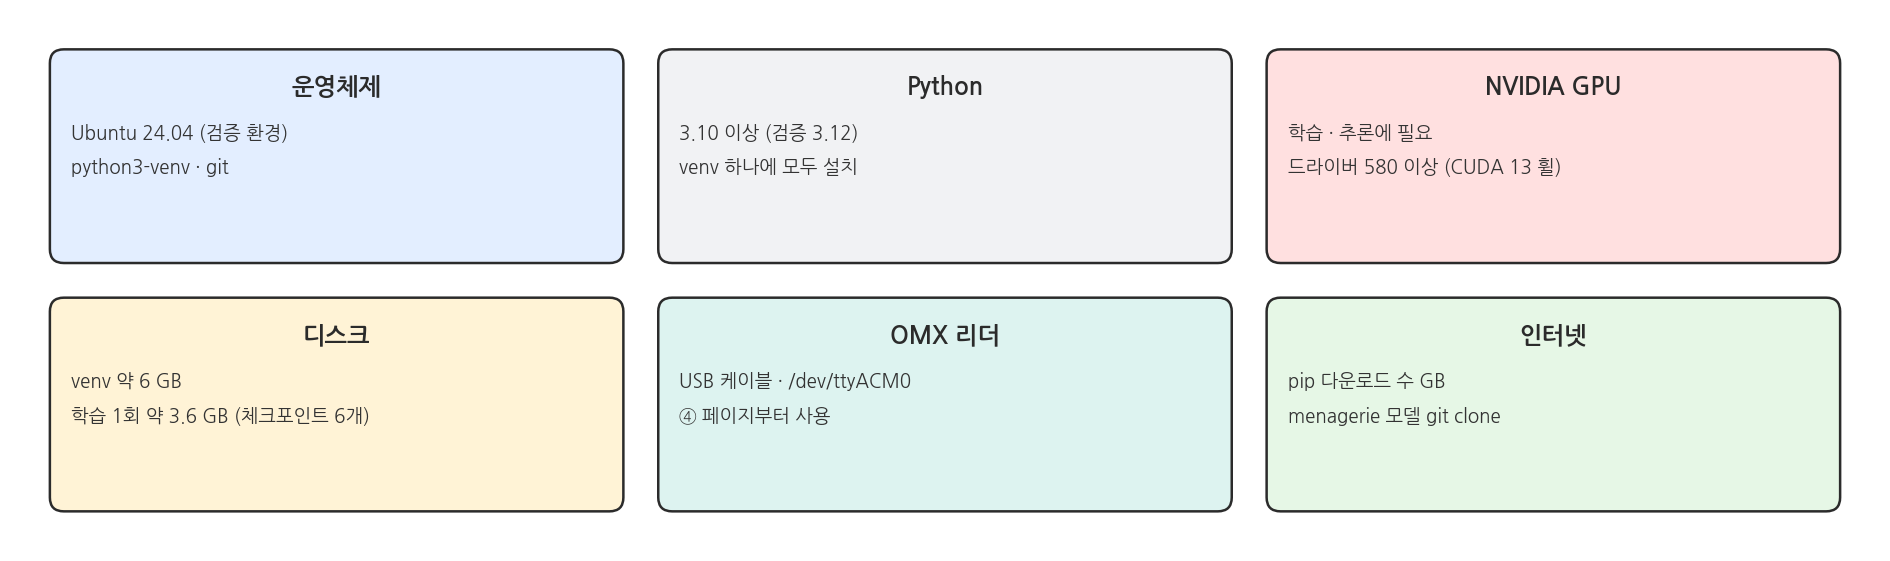
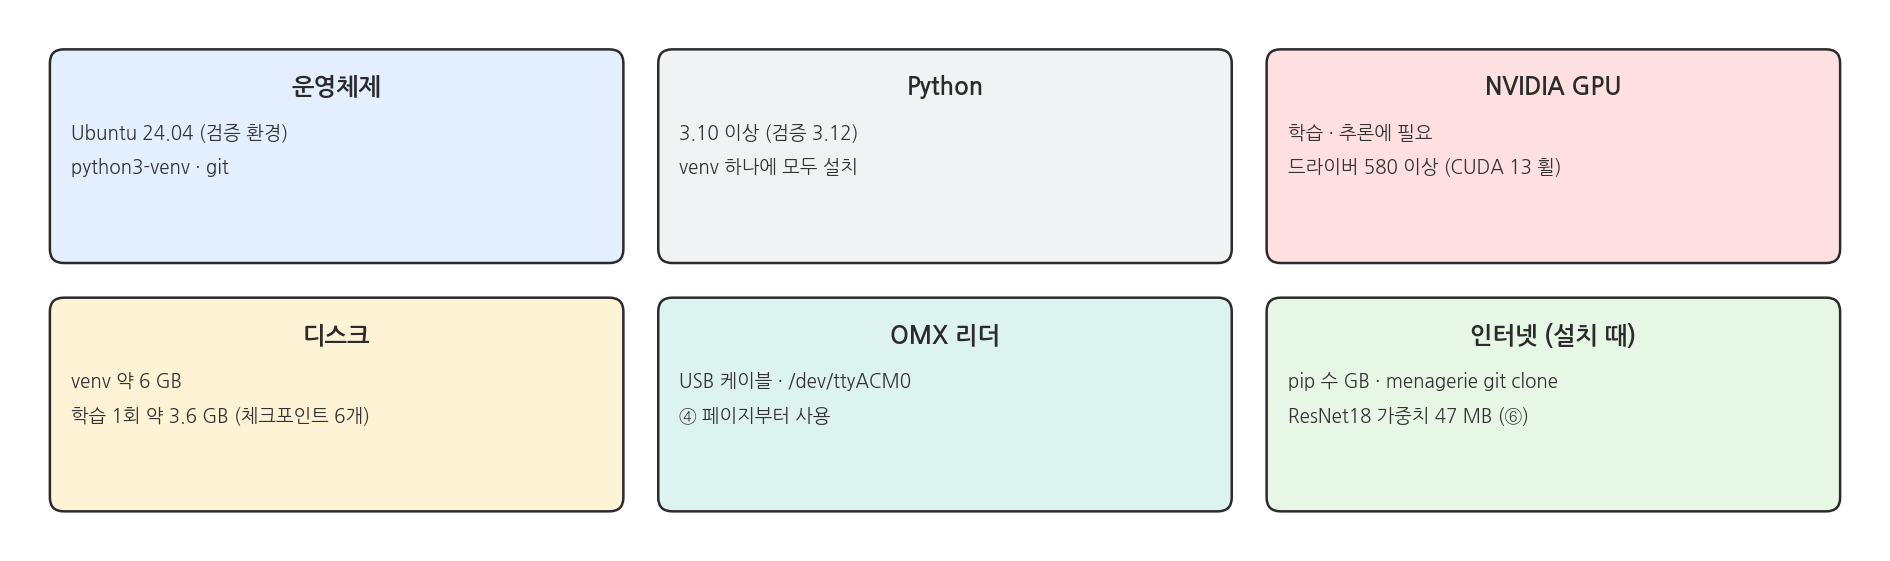
Lecture review fixes: CPU speed, ResNet18 weight prefetch, consistent names, larger screenshots
train.py: CPU warning now uses the measured 0.9 s/step (was ~5 s) and the docstring notes the
one-time ResNet18 weight download. README: prefetch command, measured GPU/CPU speeds.

Changed region(s): [[0.7804, 0.5758, 0.8741, 0.6364], [0.6868, 0.6667, 0.8429, 0.697], [0.6868, 0.7273, 0.8116, 0.7576]]

diff --git a/docs/lecture/draw_lesson07_figures.py b/docs/lecture/draw_lesson07_figures.py
@@ -81,8 +81,8 @@ def settings():
     tiles(ax, [("chunk 20 스텝", ["--chunk-s 2 × 10 fps", "LeRobot 기본 100 은 10 Hz 에서 10 s"], C["purple"]),
                ("batch 8 · lr 1e-5", ["LeRobot ACT 기본 학습률", "GPU 메모리 1.3 GB"], C["grey"]),
                ("30,000 스텝", ["5,000 스텝마다 체크포인트", "Ctrl+C → --resume 으로 이어서"], C["yellow"]),
-               ("AMP (GPU)", ["혼합 정밀도, 약 25% 빠름", "CPU 에서는 끔"], C["blue"]),
-               ("오프라인", ["HF_HUB_OFFLINE=1", "data/ 의 로컬 데이터셋만"], C["teal"]),
+               ("AMP (GPU)", ["혼합 정밀도 (float16 계산)", "CPU 에서는 끔"], C["blue"]),
+               ("Hub 없이", ["HF_HUB_OFFLINE=1 · data/ 의 로컬 데이터", "첫 학습 때 ResNet18 가중치 47 MB 받음"], C["teal"]),
                ("실측 속도", ["RTX 5060 Ti: 약 21 스텝/s", "30,000 스텝 약 23 분"], C["green"])], 3, h=1.8)
     save(fig, "l07_settings.png")
 
@@ -129,15 +129,15 @@ def checkpoints():
 
 def gpu_cpu():
     fig, ax = plt.subplots(figsize=(12, 3.6), dpi=150)
-    vals = [("GPU (RTX 5060 Ti, 실측)", 23 / 60, BLUE), ("CPU (Ryzen 7 9700X, 스텝당 약 5 s)", 30000 * 5 / 3600, RED)]
+    vals = [("GPU (RTX 5060 Ti, 30,000 스텝 실측)", 23 / 60, BLUE), ("CPU (Ryzen 7 9700X, 스텝당 0.9 s 실측)", 30000 * 0.9 / 3600, RED)]
     for i, (n, h, c) in enumerate(vals):
         ax.barh(i, h, color=c, height=0.5)
-        ax.text(h + 0.6, i, f"{h:.1f} 시간" if h > 1 else f"{h * 60:.0f} 분", va="center", fontsize=11, fontweight="bold")
+        ax.text(h + 0.12, i, f"{h:.1f} 시간" if h > 1 else f"{h * 60:.0f} 분", va="center", fontsize=11, fontweight="bold")
     ax.set_yticks(range(2), [v[0] for v in vals], fontsize=10.5); ax.invert_yaxis()
-    ax.set_xlabel("30,000 스텝 학습 시간 (시간)", fontsize=10.5); ax.set_xlim(0, 48)
+    ax.set_xlabel("30,000 스텝 학습 시간 (시간)", fontsize=10.5); ax.set_xlim(0, 9)
     for sp in ("top", "right"):
         ax.spines[sp].set_visible(False)
-    ax.set_title("GPU 와 CPU 학습 시간 비교 (CPU 값은 짧게 재 본 스텝 시간으로 환산)", fontsize=11.5)
+    ax.set_title("GPU 와 CPU 학습 시간 비교 (CPU 는 40 스텝을 재서 30,000 스텝으로 환산)", fontsize=11.5)
     fig.savefig(OUT / "l07_gpu_cpu.png", bbox_inches="tight", facecolor="white"); plt.close(fig)
     print("saved l07_gpu_cpu.png")
 

diff --git a/docs/lecture/draw_lesson06_figures.py b/docs/lecture/draw_lesson06_figures.py
@@ -13,7 +13,7 @@ import matplotlib.pyplot as plt
 import numpy as np
 
 sys.path.insert(0, str(Path(__file__).resolve().parent))
-from figstyle import BLUE, GREY, INK, OUT, RED, C, arrow, chain, fig_ax, image, label, note, rbox, save  # noqa: E402
+from figstyle import grid2x2, BLUE, GREY, INK, OUT, RED, C, arrow, chain, fig_ax, image, label, note, rbox, save  # noqa: E402
 from render_terminal import render  # noqa: E402
 
 
@@ -67,13 +67,9 @@ def frame():
 
 
 def sequence():
-    fig, ax = fig_ax(16, 4.1)
-    for i, (n, t) in enumerate([("rec", "REC 4.4 s"), ("ok", "성공 → REC OK"), ("saved", "SAVED episode 1"),
-                                ("done", "3 / 3 → DONE")]):
-        x = 0.3 + i * 3.9
-        hh = image(ax, OUT / f"l06_view_{n}.png", x, 0.3, 3.7)
-        note(ax, x + 1.85, 0.3 + hh + 0.25, t, ha="center", fs=10.5, bold=True, color=INK)
-    save(fig, "l06_sequence.png")
+    grid2x2([(OUT / f"l06_view_{n}.png", t) for n, t in
+             [("rec", "REC 4.4 s"), ("ok", "성공 → REC OK"), ("saved", "SAVED episode 1"), ("done", "3 / 3 → DONE")]],
+            "l06_sequence.png", crop_right=2020)
 
 
 def layout():
@@ -139,8 +135,11 @@ def terminals():
            "l06_t_record.png", highlight=("saved (success)",))
     lines = (OUT / "l06_inspect.txt").read_text().splitlines()
     lines = [s for s in lines if not s.startswith("saved ")]
-    render([("prompt", ".venv/bin/python docs/lecture/inspect_dataset.py lecture_record")] + [("out", s) for s in lines],
-           "l06_t_inspect.png", highlight=("episode lengths", "size on disk"))
+    cut = lines.index("ds[0] (episode 0, frame 0):")
+    render([("prompt", ".venv/bin/python docs/lecture/inspect_dataset.py lecture_record")]
+           + [("out", s) for s in lines[:cut] if s.strip()] + [("out", "...")], "l06_t_inspect_meta.png")
+    render([("out", "...")] + [("out", s) for s in lines[cut:] if s.strip()],
+           "l06_t_inspect_frame.png", highlight=("episode lengths", "size on disk"))
     render([("prompt", "du -sh data/lecture_record data/omx_cube_fixed5 data/omx_cube_random50"),
             ("out", "1.9M\tdata/lecture_record"), ("out", "2.8M\tdata/omx_cube_fixed5"), ("out", "28M\tdata/omx_cube_random50")],
            "l06_t_size.png")

diff --git a/docs/lecture/draw_lesson02_figures.py b/docs/lecture/draw_lesson02_figures.py
@@ -16,14 +16,14 @@ def requirements():
                ("NVIDIA GPU", ["학습 · 추론에 필요", "드라이버 580 이상 (CUDA 13 휠)"], C["red"]),
                ("디스크", ["venv 약 6 GB", "학습 1회 약 3.6 GB (체크포인트 6개)"], C["yellow"]),
                ("OMX 리더", ["USB 케이블 · /dev/ttyACM0", "④ 페이지부터 사용"], C["teal"]),
-               ("인터넷", ["pip 다운로드 수 GB", "menagerie 모델 git clone"], C["green"])], 3, h=1.85)
+               ("인터넷 (설치 때)", ["pip 수 GB · menagerie git clone", "ResNet18 가중치 47 MB (⑥)"], C["green"])], 3, h=1.85)
     save(fig, "l02_requirements.png")
 
 
 def install_flow():
     fig, ax = fig_ax(16, 2.9)
     chain(ax, [("① apt", ["python3-venv · git"]), ("② 저장소", ["git clone"]), ("③ venv", ["pip install -e ."]),
-               ("④ menagerie", ["OMX 메시 · 모델"]), ("⑤ dialout", ["시리얼 권한"]), ("⑥ 확인", ["버전 · GPU · 렌더"])],
+               ("④ menagerie", ["OMX 메시 · 모델"]), ("⑤ dialout", ["시리얼 권한"]), ("⑥ 확인", ["가중치 · 버전 · 렌더"])],
           0.5, 1.9, gap=0.3, colors=[C["grey"], C["blue"], C["purple"], C["teal"], C["yellow"], C["green"]],
           tfs=11.5, fs=9.5)
     save(fig, "l02_install_flow.png")
@@ -118,7 +118,7 @@ def troubleshoot():
     rows = [("ensurepip is not available", "python3-venv 없음", "sudo apt install python3-venv"),
             ("Error opening file '.../models/follower_01_base.stl'", "menagerie를 받지 않음", "④ git clone 실행"),
             ("[Errno 13] Permission denied: '/dev/ttyACM0'", "dialout 그룹이 아님", "⑤ usermod 후 로그아웃 · 로그인"),
-            ("WARNING: no GPU found. On CPU a step takes ~5 s", "GPU · 드라이버 없음", "nvidia-smi 확인, GPU PC에서 학습")]
+            ("WARNING: no GPU found. On CPU a step takes ~1 s or more", "GPU · 드라이버 없음", "nvidia-smi 확인, GPU PC에서 학습")]
     x = [0.3, 7.6, 11.0]; w = [7.1, 3.2, 4.7]
     for j, t in enumerate(["증상 (메시지)", "원인", "해결"]):
         rbox(ax, x[j], 3.75, w[j], 0.6, t, fc=[C["grey"], C["yellow"], C["green"]][j], tfs=11)

diff --git a/scripts/train.py b/scripts/train.py
@@ -1,4 +1,7 @@
-"""Train an ACT policy on a recorded dataset (data/<dataset>) with LeRobot, fully offline.
+"""Train an ACT policy on a recorded dataset (data/<dataset>) with LeRobot, without the Hugging Face Hub.
+
+The first run downloads the ResNet18 ImageNet weights (~45 MB, torchvision cache in ~/.cache/torch/hub);
+after that no internet is needed.
 
   python scripts/train.py [--dataset omx_cube_to_tray] [--steps 30000] [--batch-size 8]
   python scripts/train.py --resume            # continue an interrupted run (Ctrl+C is fine)
@@ -6,7 +9,7 @@
 
 Output: outputs/train/<dataset>_act/checkpoints/<step>/pretrained_model (a checkpoint every
 --save-freq steps; checkpoints/last points at the newest). Progress, loss and the remaining time
-are printed by LeRobot. A GPU is strongly recommended: on CPU training is 25x slower.
+are printed by LeRobot. A GPU is strongly recommended: on CPU training is about 20x slower.
 """
 import argparse
 import json
@@ -99,8 +102,9 @@ def main():
 
     print(f"run: {run_dir}  device: {device}")
     if device == "cpu":
-        print(f"WARNING: no GPU found. On CPU a step takes ~5 s, so {args.steps} steps take about "
-              f"{args.steps * 5 / 3600:.0f} h. Train on a PC with an NVIDIA GPU if you can.")
+        # Measured ~0.9 s per step on an 8-core desktop CPU (Ryzen 7 9700X); laptops are slower.
+        print(f"WARNING: no GPU found. On CPU a step takes ~1 s or more, so {args.steps} steps take at least "
+              f"{args.steps * 0.9 / 3600:.0f} h. Train on a PC with an NVIDIA GPU if you can.")
 
     env = dict(os.environ, SVT_LOG="1", HF_HUB_OFFLINE="1")  # quiet video encoder, never touch the Hub
     try:

diff --git a/docs/lecture/draw_lesson05_figures.py b/docs/lecture/draw_lesson05_figures.py
@@ -8,7 +8,7 @@ import sys
 from pathlib import Path
 
 sys.path.insert(0, str(Path(__file__).resolve().parent))
-from figstyle import BLUE, GREEN, INK, OUT, RED, C, arrow, chain, fig_ax, image, label, note, rbox, save  # noqa: E402
+from figstyle import grid2x2, BLUE, GREEN, INK, OUT, RED, C, arrow, chain, fig_ax, image, label, note, rbox, save  # noqa: E402
 from render_terminal import render  # noqa: E402
 
 
@@ -62,13 +62,9 @@ def view_direction():
 
 
 def sequence():
-    fig, ax = fig_ax(16, 4.1)
-    names = [("start", "시작 (리더 정지)"), ("grasp", "잡기"), ("carry", "옮기기"), ("success", "놓기 → SUCCESS")]
-    for i, (n, t) in enumerate(names):
-        x = 0.3 + i * 3.9
-        hh = image(ax, OUT / f"l05_view_{n}.png", x, 0.3, 3.7)
-        note(ax, x + 1.85, 0.3 + hh + 0.25, t, ha="center", fs=10.5, bold=True, color=INK)
-    save(fig, "l05_sequence.png")
+    grid2x2([(OUT / f"l05_view_{n}.png", t) for n, t in
+             [("start", "시작 (리더 정지)"), ("grasp", "잡기"), ("carry", "옮기기"), ("success", "놓기 → SUCCESS")]],
+            "l05_sequence.png", crop_right=2020)
 
 
 def keys():

diff --git a/docs/lecture/draw_lesson10_figures.py b/docs/lecture/draw_lesson10_figures.py
@@ -12,7 +12,7 @@ import matplotlib.pyplot as plt
 import numpy as np
 
 sys.path.insert(0, str(Path(__file__).resolve().parent))
-from figstyle import BLUE, GREEN, INK, OUT, RED, C, arrow, chain, fig_ax, image, note, rbox, save  # noqa: E402
+from figstyle import grid2x2, BLUE, GREEN, INK, OUT, RED, C, arrow, chain, fig_ax, image, note, rbox, save  # noqa: E402
 from render_terminal import render  # noqa: E402
 
 ROOT = OUT.parents[1]
@@ -98,13 +98,8 @@ def interp():
 
 
 def video_frames():
-    """Frames 0/25/45/80 of outputs/lecture/scripted5.mp4, extracted with the venv (imageio) to l10_video_*.png."""
-    fig, ax = fig_ax(16, 2.6)
-    for k, i in enumerate((0, 25, 45, 80)):
-        x = 0.3 + k * 3.9
-        image(ax, OUT / f"l10_video_{i:03d}.png", x, 0.3, 3.7)
-        note(ax, x + 0.1, 0.5, f"t = {i / 10:.1f} s", fs=9, color="white")
-    save(fig, "l10_video.png")
+    """Frames 0/25/45/80 of outputs/lecture/scripted5.mp4 (global | wrist), extracted with the venv to l10_video_*.png."""
+    grid2x2([(OUT / f"l10_video_{i:03d}.png", f"t = {i / 10:.1f} s") for i in (0, 25, 45, 80)], "l10_video.png")
 
 
 def terminals():

diff --git a/docs/lecture/figstyle.py b/docs/lecture/figstyle.py
@@ -117,3 +117,28 @@ def save(fig, name):
     fig.savefig(OUT / name, bbox_inches="tight", facecolor="white")
     plt.close(fig)
     print("saved", name)
+
+
+def grid2x2(items, name, crop_right=None):
+    """Four screenshots in a 2 x 2 grid with a title above each. items: (png path, title).
+    crop_right: keep only this many pixels from the left (drops the viewer's UI panel)."""
+    from PIL import Image
+    tmp = []
+    for path, _ in items:
+        im = Image.open(path)
+        if crop_right:
+            im = im.crop((0, 0, min(crop_right, im.width), im.height))
+        p = OUT / f".tmp_{Path(path).name}"
+        im.save(p)
+        tmp.append(p)
+    w = 7.6
+    h = w * Image.open(tmp[0]).height / Image.open(tmp[0]).width
+    fig, ax = fig_ax(16, 2 * (h + 0.65) + 0.1)
+    for k, (p, (_, title)) in enumerate(zip(tmp, items)):
+        r, c = divmod(k, 2)
+        x, y = 0.3 + c * (w + 0.2), 0.1 + (1 - r) * (h + 0.65)
+        image(ax, p, x, y, w)
+        note(ax, x + w / 2, y + h + 0.3, title, ha="center", fs=12, bold=True, color=INK)
+    save(fig, name)
+    for p in tmp:
+        p.unlink()

diff --git a/docs/lecture/draw_lesson01_figures.py b/docs/lecture/draw_lesson01_figures.py
@@ -212,7 +212,7 @@ def stack():
     fig, ax = fig_ax(16, 4.6)
     tiles(ax, [("MuJoCo 3.15.0", ["물리 시뮬레이션 · 뷰어", "오프스크린 카메라 렌더 (EGL)"], C["blue"]),
                ("LeRobot 0.6.1", ["LeRobotDataset · ACT 정책", "OMX 리더 드라이버 (Dynamixel)"], C["purple"]),
-               ("PyTorch + CUDA", ["ACT 학습 · 추론", "GPU 필수 (CPU는 약 25배 느림)"], C["red"]),
+               ("PyTorch + CUDA", ["ACT 학습 · 추론", "GPU 필수 (CPU는 약 20배 느림)"], C["red"]),
                ("ROBOTIS OMX", ["리더 팔 (실물)", "menagerie MJCF 모델"], C["yellow"]),
                ("Python venv", ["의존성은 pyproject.toml", "mujoco==3.15.0 고정"], C["grey"]),
                ("검증 환경", ["Ubuntu 24.04 · Python 3.12", "RTX 5060 Ti 16 GB"], C["green"])], 3, h=1.85)

diff --git a/docs/lecture/draw_lesson04_figures.py b/docs/lecture/draw_lesson04_figures.py
@@ -23,7 +23,7 @@ def hardware():
     rbox(ax, 6.1, 0.6, 3.6, 3.4, "USB", ["/dev/ttyACM0", "dialout 그룹 권한 (②)"], fc=C["grey"], align="left", dy=0.5)
     arrow(ax, (9.7, 2.3), (10.5, 2.3))
     rbox(ax, 10.5, 0.6, 5.2, 3.4, "PC: LeRobot OmxLeader", ["connect(): 설정 쓰기 (2절)", "get_action(): 6개 위치 읽기",
-                                                          "읽기 1회 약 1.5 ms (실측)"], fc=C["purple"], align="left", dy=0.5)
+                                                          "읽기 1회 1.4 ~ 1.6 ms (실측)"], fc=C["purple"], align="left", dy=0.5)
     save(fig, "l04_hardware.png")
 
 

diff --git a/docs/lecture/lesson07_train.md b/docs/lecture/lesson07_train.md
@@ -16,7 +16,7 @@
 ![ACT 의 입력 · 출력](l07_arch.png){width=1000}
 
 - 학습 때는 CVAE 인코더가 시연 행동을 보고 잠재 변수 z 를 만들어, 같은 상황에서 시연이 조금씩 다른 것을 흡수합니다. 평가 때는 z = 0 을 씁니다.
-- 그래서 같은 관측이면 항상 같은 행동이 나옵니다. 큐브 자리를 고정한 평가는 몇 번을 해도 결과가 같습니다 (⑧).
+- 그래서 같은 관측이면 거의 같은 행동이 나옵니다. 큐브 자리를 고정한 10번 평가에서 성공 · 실패는 매번 같았고, 걸린 시간은 0.1 s 정도만 달랐습니다 (⑧ ⑨).
 
 ### 이 저장소의 학습 설정
 
@@ -33,6 +33,7 @@ cd ~/il_omx_mujoco
 ```
 
 - 데이터셋에 에피소드가 5개 미만이면 시작하지 않습니다.
+- 첫 학습 때 ACT 의 영상 백본(ResNet18) 가중치 47 MB 를 인터넷에서 받습니다. 인터넷이 없는 PC 는 ② 의 ⑥ 단계로 미리 받아 둡니다.
 - 같은 이름의 학습 폴더가 있으면 시작하지 않습니다. 이어서 하려면 `--resume`, 새로 하려면 `--name` 으로 다른 이름을 줍니다.
 
 ### 실행 결과: 학습 (300 스텝 짧게 실행)
@@ -67,7 +68,8 @@ cd ~/il_omx_mujoco
 
 ![30,000 스텝 학습 시간](l07_gpu_cpu.png){width=1000}
 
-- GPU 가 없는 PC 에서는 학습이 현실적으로 어렵습니다. GPU 가 있는 PC 에서 학습하고, `outputs/train/<run>` 폴더를 복사해 평가합니다.
+- CPU 는 8코어 데스크톱(Ryzen 7 9700X)에서도 스텝당 0.9 s, 30,000 스텝에 약 7.5 시간입니다 (GPU 의 약 20배). 노트북 CPU 는 더 느립니다.
+- GPU 가 있는 PC 에서 학습하고, `outputs/train/<run>` 폴더를 복사해 평가하는 방법을 권합니다. 평가(추론)는 CPU 로도 됩니다 (`--device cpu`).
 
 ## 3. 코드와 설정
 
@@ -98,7 +100,7 @@ common = [f"--steps={args.steps}",                  # 30000
           f"--num_workers={args.num_workers}",
           f"--policy.device={device}",
           f"--policy.use_amp={str(device == 'cuda').lower()}"]
-env = dict(os.environ, SVT_LOG="1", HF_HUB_OFFLINE="1")   # 인터넷(Hub) 을 쓰지 않음
+env = dict(os.environ, SVT_LOG="1", HF_HUB_OFFLINE="1")   # Hugging Face Hub 을 쓰지 않음
 subprocess.run(cmd, env=env, cwd=ROOT)
 ```
 
@@ -119,6 +121,6 @@ def act(obs: dict) -> np.ndarray:
 
 ### 해 볼 것
 
-- `--steps 5000` 으로 짧게 학습하고 `--resume --steps 10000` 으로 이어서 학습해 보기
-- `--chunk-s 1` (10 스텝) 로 학습한 정책을 ⑨ 의 방법으로 평가해 2 s 와 비교
+- `--name short_act --steps 5000` 으로 짧게 학습하고 `--resume --name short_act --steps 10000` 으로 이어서 학습해 보기 (같은 데이터셋으로 다시 학습할 때는 `--name` 으로 다른 이름이 필요)
+- `--chunk-s 1 --name my_random50_chunk1` (10 스텝) 로 학습한 정책을 `eval.py --run my_random50_chunk1` 로 평가해 2 s 와 비교
 - 학습 중 다른 터미널에서 `nvidia-smi` 로 GPU 메모리 · 사용률 확인

diff --git a/docs/lecture/lesson08_exercise1.md b/docs/lecture/lesson08_exercise1.md
@@ -21,7 +21,8 @@ cd ~/il_omx_mujoco
 ```
 
 - 5번 모두 같은 자리 (x 21 cm, y -6 cm, 회전 0°) 입니다. 녹화 방법은 ⑥ 과 같습니다.
-- 스크립트로 같은 조건의 데이터를 만들려면: `.venv/bin/python scripts/scripted_pick_place.py --episodes 5 --fixed-cube --dataset my_fixed5`
+- 스크립트로 같은 조건의 데이터를 만들려면 (⑩): `.venv/bin/python scripts/scripted_pick_place.py --episodes 5 --fixed-cube --dataset scripted_fixed5`. 이미 녹화한 `my_fixed5` 에 섞이지 않도록 이름을 따로 줍니다 (같은 이름이면 뒤에 이어 붙습니다).
+- 이 페이지의 실행 결과는 스크립트로 만든 데이터셋 `omx_cube_fixed5` 와 그 학습 결과 `omx_cube_fixed5_act` 입니다. 명령의 `my_fixed5` 자리에 이 이름이 들어간 것만 다릅니다.
 
 ### 터미널 1: 학습
 
@@ -42,7 +43,7 @@ cd ~/il_omx_mujoco
 ![같은 자리 10회: 100%](l08_t_eval_a.png){width=1000}
 
 - 10번 모두 6.3 s 에 성공. 같은 자리 · 같은 정책이면 MuJoCo 도 정책도 매번 똑같이 계산하므로 10번의 결과가 같습니다.
-- `--view` 를 주면 MuJoCo 뷰어로 실시간 재생됩니다. 빼면 화면 없이 빠르게 돌고, 처음 5회는 영상(`eval/*.mp4`)으로 남습니다.
+- `--view` 를 주면 MuJoCo 뷰어로 실시간 재생되고, 빼면 화면 없이 빠르게 돕니다. 어느 쪽이든 처음 5회는 영상(`eval/*.mp4`)으로 남습니다.
 
 ### 터미널 2: 추론 B - 자리 · 각도 변경
 
@@ -54,7 +55,7 @@ cd ~/il_omx_mujoco
 
 ![무작위 자리 50회: 18%](l08_t_eval_b.png){width=1000}
 
-- 큐브 자리를 seed 1000 ~ 1049 로 정합니다. 모든 정책을 같은 50 자리에서 비교할 수 있고, 시연(seed 0 부터)과는 겹치지 않습니다.
+- 큐브 자리를 seed 1000 ~ 1049 로 정합니다. 모든 정책을 같은 50 자리에서 비교할 수 있습니다. 스크립트 시연(seed 0 부터)과는 겹치지 않고, 사람이 녹화할 때는 seed 없이 무작위로 놓입니다.
 
 ## 3. 결과 읽기
 
@@ -62,7 +63,7 @@ cd ~/il_omx_mujoco
 
 ![실습 1 정책의 체크포인트별 성공률](l08_curve.png){width=1000}
 
-- 같은 자리(초록)는 **2,000 스텝 (학습 약 1.5 분) 에 이미 성공**했고, 그 뒤 모든 체크포인트에서 100% 입니다. 1,000 스텝에서는 아직 0% 입니다.
+- 같은 자리(초록)는 **2,000 스텝 (학습 약 2 분) 에 이미 성공**했고, 그 뒤 모든 체크포인트에서 100% 입니다. 1,000 스텝에서는 아직 0% 입니다.
 - 학습을 더 해도 바뀐 자리(빨강)는 15 ~ 25% 에 머뭅니다. 학습 시간의 문제가 아니라 데이터의 문제입니다.
 - 1k ~ 4k 는 1,000 스텝마다 저장하도록 5,000 스텝 학습을 따로 한 번 더 해서 얻은 값입니다 (평가 A 3회, B 20회).
 

diff --git a/docs/lecture/lesson09_exercise2.md b/docs/lecture/lesson09_exercise2.md
@@ -17,7 +17,8 @@ cd ~/il_omx_mujoco
 ```
 
 - 한 번에 다 못 하면 창을 닫고 나중에 같은 명령으로 이어서 녹화합니다 (같은 `--dataset` 이름이면 이어 붙음).
-- 스크립트로 같은 조건의 데이터를 만들려면: `.venv/bin/python scripts/scripted_pick_place.py --episodes 50 --dataset my_random50`
+- 스크립트로 같은 조건의 데이터를 만들려면 (⑩): `.venv/bin/python scripts/scripted_pick_place.py --episodes 50 --dataset scripted_random50`. 녹화한 `my_random50` 과 이름을 따로 줍니다.
+- 이 페이지의 실행 결과는 스크립트로 만든 데이터셋 `omx_cube_random50` 과 그 학습 결과 `omx_cube_random50_act` 입니다.
 
 ### 실행 결과: 스크립트 시연 50회 수집
 
@@ -64,7 +65,7 @@ cd ~/il_omx_mujoco
 - 같은 자리(초록)도 처음에는 흔들립니다: 1k 67% → 2k ~ 4k 0% → 5k 부터 100% (15k 제외). 실습 1 정책이 2k 부터 계속 100% 였던 것과 대조적입니다. 다양한 데이터는 배우는 데 더 오래 걸립니다.
 - 바뀐 자리(파랑)는 오르내리며 올라가 30k 에서 98% 가 됩니다 (5k 48% → 10k 22% → 15k 46% → 20k 78% → 25k 66% → 30k 98%).
 - 15k 체크포인트는 같은 자리에서도 0% 였습니다. 중간 체크포인트 하나만 보고 판단하지 말고, 여러 체크포인트를 평가해 고릅니다.
-- 실습 1 보다 늦게 배우는 대신, 자리가 바뀌어도 성공합니다. 30k 에서도 아직 오르는 중이라 더 학습하면 (`--resume --steps 50000`) 나아질 수 있습니다.
+- 실습 1 보다 늦게 배우는 대신, 자리가 바뀌어도 성공합니다. 곡선이 오르내리므로, 더 학습하면 (`--resume --steps 50000`) 나아지는지는 직접 확인해 볼 일입니다.
 
 ### 어디서 성공하고 어디서 실패하나
 
